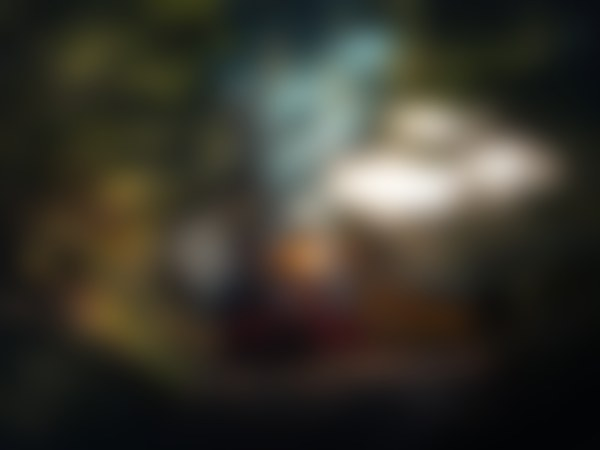
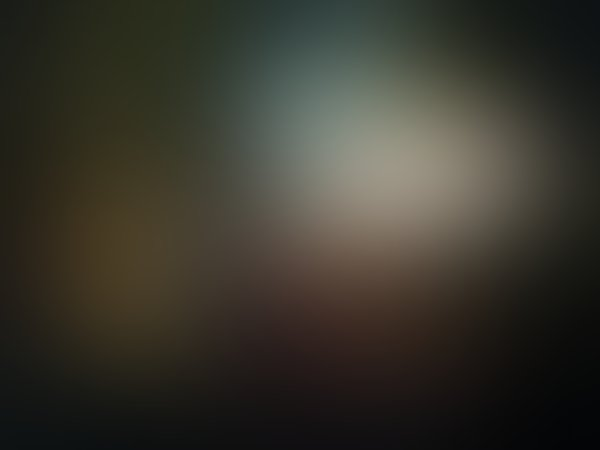
style: apply ultra-heavy blur (the blurriest) to train backgrounds with smooth bokeh glow

diff --git a/train-frontend/src/components/AvailabilityBadge.jsx b/train-frontend/src/components/AvailabilityBadge.jsx
@@ -40,13 +40,13 @@ const AvailabilityBadge = ({ travelClass, data, onOptimize, bgImage }) => {
 
     return (
         <div className="relative overflow-hidden border border-[#E4E7EC] rounded-xl p-3 bg-white flex flex-col gap-2 transition-all duration-200 hover:-translate-y-0.5 hover:shadow-md hover:border-gray-300 animate-fade-up group">
-            {/* Aesthetic Train Background — clearly visible with gentle blur & natural framing */}
+            {/* Aesthetic Train Background — the blurriest smooth glowing bokeh */}
             <div
-                className="absolute inset-0 bg-cover bg-center scale-100 group-hover:scale-105 transition-transform duration-500 pointer-events-none opacity-85 group-hover:opacity-95"
+                className="absolute inset-0 bg-cover bg-center filter blur-[6px] scale-115 pointer-events-none opacity-90 group-hover:opacity-100 transition-opacity duration-300"
                 style={{ backgroundImage: `url(${cardBg})` }}
             />
-            {/* Soft translucent gradient to let the train image be prominently seen while keeping text crisp */}
-            <div className="absolute inset-0 bg-gradient-to-b from-white/70 via-white/45 to-white/75 pointer-events-none" />
+            {/* Soft translucent gradient */}
+            <div className="absolute inset-0 bg-gradient-to-b from-white/60 via-white/35 to-white/65 pointer-events-none" />
 
             {/* Foreground Content */}
             <div className="relative z-10 flex flex-col gap-2">
